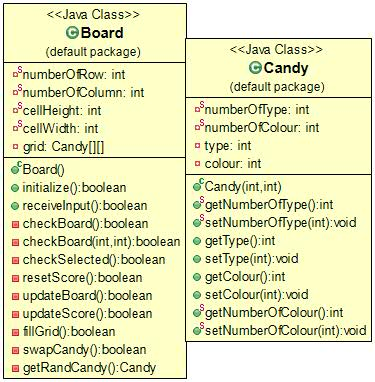
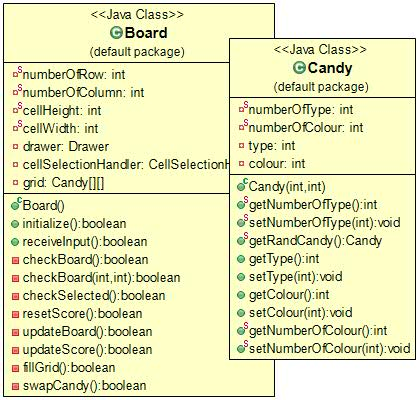
why do i have to summarize evetim

diff --git a/src/CellSelectionHandler.java b/src/CellSelectionHandler.java
@@ -1,0 +1,50 @@
+import java.util.ArrayList;
+
+/**
+ * A class which handle user's cells' selection.
+ * 
+ * @getSelected()
+ * Return current selected cell as a Coordinate object.
+ * Return a null object if no cell is selected at the time.
+ * 
+ * @select(Coordinate coor)
+ * @select(int row, int col)
+ * Perform a selection action.
+ *  	If no cell is currently selected, select the given one.
+ *  	If the given cell is adjacent two the previous selected cells, return the two coordinates and reset.
+ *  	If the given cell is not adjacent or is the same with the previous selected cell reset.
+ * Return a null object if this is the first cell.
+ * Return a ArrayList<Coordinate> object contains two Coordinate objects if two adjacent cells are selected.
+ * Return a null object if the given cell is not adjacent or is the same with the previous selected cell.
+ */
+public class CellSelectionHandler {
+	private Coordinate selected;
+	 
+	public CellSelectionHandler() {
+		selected = null;
+	}
+
+	public Coordinate getSelected() {
+		return selected;
+	}
+	
+	public ArrayList<Coordinate> select(Coordinate coordinate) {
+		if(this.selected == null) { //Nothing has been selected, select
+			this.selected = coordinate;
+			return null;
+		} else if (Coordinate.isNeighbours(this.selected, coordinate)) { //The previous selected is a neighbour with the lastest, return both, delete both
+			ArrayList<Coordinate> array = new ArrayList<Coordinate>();
+			array.add(this.selected);
+			array.add(coordinate);
+			reset();
+			return array;
+		} else { //The previous selected is not a neighbour with the lastest, or is the same
+			reset();
+			return null;			
+		}
+	}
+	
+	private void reset() {
+		selected = null;
+	}
+}

diff --git a/src/Coordinate.java b/src/Coordinate.java
@@ -1,0 +1,47 @@
+import java.lang.Math;
+
+/**
+ * @Constructor Coordinate(int row, int col)
+ * 
+ * @isNeighbours(int row1, int col1, int row2, int col2)
+ * @isNeighbours(Coordinate cell1, Coordinate cell2)
+ * Check if two given cell are next to each others.
+ * Return true if the two cells are neighbours
+ * Return false if not, or are the same cell.
+ *
+ */
+public class Coordinate {
+	final private Integer row;
+	final private Integer column;
+
+	public Coordinate(Integer row, Integer column) {
+		this.row = row;
+		this.column = column;
+	}
+
+	public Coordinate(int row, int column) {
+		this.row = new Integer(row);
+		this.column = new Integer(column);
+	}
+
+	static public boolean isNeighbours(Coordinate a, Coordinate b) {
+		if (Math.abs(a.getColumn() - b.getColumn()) + Math.abs(a.getRow() - b.getRow()) == 1) return true;
+		return false;
+	}
+
+	static public boolean isNeighbours(int rowA, int colA, int rowB, int colB) {
+		Coordinate a = new Coordinate(rowA, colA);
+		Coordinate b = new Coordinate(rowB, colB);
+		return Coordinate.isNeighbours(a, b);
+
+	}
+
+	public Integer getRow() {
+		return row.intValue();
+	}
+
+	public Integer getColumn() {
+		return column.intValue();
+	}
+
+}

diff --git a/src/Board.java b/src/Board.java
@@ -1,12 +1,14 @@
-import java.util.Random;
 
 public class Board {
 	static private int numberOfRow = 5, numberOfColumn = 5;
 	static private int cellHeight = 10, cellWidth = 10;
+	private Drawer drawer;
+	private CellSelectionHandler cellSelectionHandler;
 	private Candy grid[][];
 	
 	public Board() {
 		grid = new Candy[numberOfRow][numberOfColumn];
+		drawer = new Drawer();
 	}
 	
 	public boolean initialize() {
@@ -69,16 +71,5 @@ public class Board {
 	private boolean swapCandy() {
 		
 	}
-	
-	private Candy getRandCandy() {
-		if(Candy.getNumberOfColour() == 0 || Candy.getNumberOfType() == 0) {
-			System.err.println("ERROR MESSAGE HERE");
-			return null;
-		}
-		Random rand = new Random();
-		Candy candy = new Candy(rand.nextInt(Candy.getNumberOfType()), rand.nextInt(Candy.getNumberOfColour()));
-		return candy;
-	}
-
 	
 }

diff --git a/src/Candy.java b/src/Candy.java
@@ -1,4 +1,10 @@
+import java.util.Random;
 
+/**
+ * @getRandCandy()
+ * Return a random generated Candy object.
+ *
+ */
 public class Candy { //stores type, colour, image of candy
 	static private int numberOfType = 0;
 	static private int numberOfColour = 0;
@@ -16,6 +22,16 @@ public class Candy { //stores type, colour, image of candy
 
 	public static void setNumberOfType(int numberOfType) {
 		Candy.numberOfType = numberOfType;
+	}
+	
+	public static Candy getRandCandy() {
+		if(Candy.getNumberOfColour() == 0 || Candy.getNumberOfType() == 0) {
+			System.err.println("ERROR MESSAGE HERE");
+			return null;
+		}
+		Random rand = new Random();
+		Candy candy = new Candy(rand.nextInt(Candy.getNumberOfType()), rand.nextInt(Candy.getNumberOfColour()));
+		return candy;
 	}
 
 	public int getType() {
